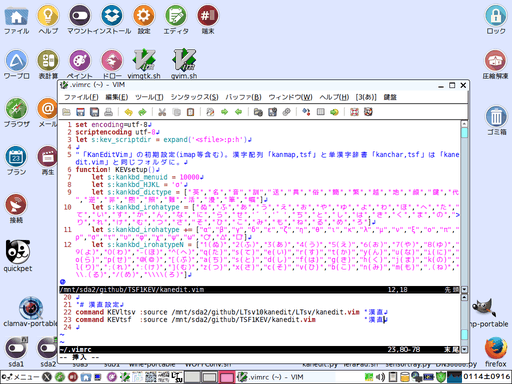
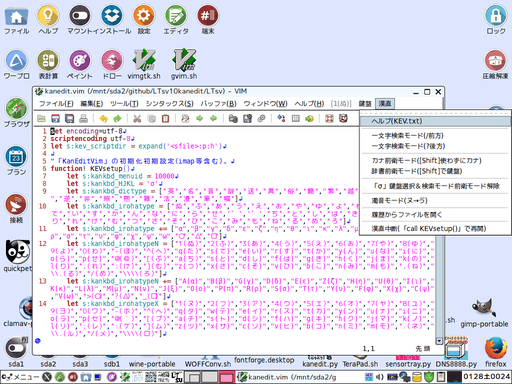
「docs/KEV_512x384.png」「docs/kanfont_512x384.png」の画像更新やVim関連のリンク強化など。

diff --git a/docs/kanfont.html b/docs/kanfont.html
@@ -33,7 +33,7 @@
   <h1>「kanfont」は「LTsv10kanedit(tsvtool10)」を用いたフォントエディタ(グリフエディタ)です。</h1>
   <p>
 
-   version(branch):20170119R141608	modify:20170126R165858<br />
+   version(branch):20170119R141608	modify:20170128S130712<br />
   
 </p>
   <h2>目次</h2>
@@ -73,9 +73,11 @@
 <section>
  <h3 id="License-1">⓪-1．インストール(ダウンロード・アンインストール)＆セットアップ</h3>
 <p>
- ※Pythonは別途インストールされているものとします(Pythonの導入分からない人は「<a href="index.html#LTsv10_faq-0" title="⑩-0．「L:Tsv」のＦＡＱ"><img src="LTsv10_logo.png" width="48" height="48" alt="LTsv10kanedit(tsvtool10)" title="LTsv10kanedit(tsvtool10)">⑩-0．「L:Tsv」のＦＡＱ</a>」も参考)。<br />
- ダウンロードは「<a href="https://github.com/ooblog/LTsv10kanedit" title="ooblog/LTsv10kanedit: 「L:Tsv」の読み書きを中心としたモジュール群と漢字入力「kanedit」のPythonによる実装です(準備中)。">https://github.com/ooblog/LTsv10kanedit</a>」にある「Clone or download」ボタンを押すと出る「Download ZIP」メニューをクリック。<br />
+ ※Pythonは別途インストールされているものとします(Pythonの導入分からない人は「<a href="index.html#LTsv10_faq-0" title="⑩-0．「L:Tsv」のＦＡＱ"><img src="LTsv10_logo.png" width="48" height="48" alt="LTsv10kanedit(tsvtool10)" title="LTsv10kanedit(tsvtool10)">⑩-0．「L:Tsv」のＦＡＱ</a>」を参考)。<br />
 </p><p>
+ ※Vimも別途インストールされているものとします(Vimの導入分からない人は「<a href="KEV.html#KEV_usage-0" title="①-0．「KEV(kanedit.vim)」をVimへセットアップ"><img src="KEV_logo.png" width="48" height="48" alt="KEV" title="KEV">①-0．「KEV(kanedit.vim)」をVimへセットアップ</a>」を参考)。<br />
+</p><p>
+ ダウンロードは「<a href="https://github.com/ooblog/LTsv10kanedit" title="ooblog/LTsv10kanedit: 「L:Tsv」の読み書きを中心としたモジュール群と漢字入力「kanedit」のPythonによる実装です(準備中)。">https://github.com/ooblog/LTsv10kanedit</a>」にある「Clone or download」ボタンを押すと出る「Download ZIP」メニューをクリック。<br />
  インストールは任意(なるだけユーザーディレクトリ内)のフォルダに「LTsv10kanedit-master.zip」を解凍するだけです(「LTsv10kanedit-master」フォルダが作成されるはずです)。<br />
  「*.py」のパーミッションがOFFになってたら実行可能に変更、Wineで使う場合は「<a href="https://github.com/ooblog/LTsv10kanedit/blob/master/wine_sh" title="https://github.com/ooblog/LTsv10kanedit/blob/master/wine_sh">wine_sh</a>」フォルダ内の「*.sh」のWineパスを適宜修正。<br />
  最初に「<a href="https://github.com/ooblog/LTsv10kanedit/blob/master/kanmap.py" title="https://github.com/ooblog/LTsv10kanedit/blob/master/kanmap.py">kanmap.py</a>」を起動(前バージョンの「LTsv/kanpickle.bin」ある場合は一旦削除してから)。「LTsv/kanpickle.bin」を新規作成してください。<br />
@@ -95,7 +97,7 @@
 <section>
  <h3 id="License-2">⓪-2．その他現在わかっている不具合や今後の課題</h3>
 <p>
- Python 2.7.6(Tahrpup6.0.5)およびPython3.4.4(Wine1.7.18)で開発しています。Windows,cygwin,darwinなどでの動作は確認しておりません。<br />
+ 「Tahrpup6.0.5,Python2.7.6,vim.gtk7.4.52(vim-gtk)」および「Wine1.7.18,Python3.4.4,gvim8.0.134(KaoriYa)」で開発しています。Windows,cygwin,darwin,MacOSなどでの動作は確認しておりません。<br />
  フォント(グリフ)「kan5x5comic」は半角と全角の幅の比率が約5:3(1024:624)なのでアスキーアートで問題になる場合があります。グリフ不足で表示できない文字などあります。<br />
  「kan5x5comic.ttf」と「kan5x5.ttf」を同時に入れると麻雀牌が表示されない(「kan5x5.ttf」の絵文字代替4x5文字が優先される)場合があります。<br />
  私用領域と呼ばれる環境に左右される文字コードを漢直鍵盤の制御に用いてます。「kan5x5comic.ttf」を用意しないとソースが見辛い可能性があります。<br />

diff --git a/docs/LTsv_doc.html b/docs/LTsv_doc.html
@@ -33,7 +33,7 @@
   <h1>「LTsv_doc」は「LTsv10kanedit(tsvtool10)」を用いたドキュメントジェネレーターです。</h1>
   <p>
 
-   version(branch):20170119R141608	modify:20170126R165858<br />
+   version(branch):20170119R141608	modify:20170128S130712<br />
   
 </p>
   <h2>目次</h2>
@@ -73,9 +73,11 @@
 <section>
  <h3 id="License-1">⓪-1．インストール(ダウンロード・アンインストール)＆セットアップ</h3>
 <p>
- ※Pythonは別途インストールされているものとします(Pythonの導入分からない人は「<a href="index.html#LTsv10_faq-0" title="⑩-0．「L:Tsv」のＦＡＱ"><img src="LTsv10_logo.png" width="48" height="48" alt="LTsv10kanedit(tsvtool10)" title="LTsv10kanedit(tsvtool10)">⑩-0．「L:Tsv」のＦＡＱ</a>」も参考)。<br />
- ダウンロードは「<a href="https://github.com/ooblog/LTsv10kanedit" title="ooblog/LTsv10kanedit: 「L:Tsv」の読み書きを中心としたモジュール群と漢字入力「kanedit」のPythonによる実装です(準備中)。">https://github.com/ooblog/LTsv10kanedit</a>」にある「Clone or download」ボタンを押すと出る「Download ZIP」メニューをクリック。<br />
+ ※Pythonは別途インストールされているものとします(Pythonの導入分からない人は「<a href="index.html#LTsv10_faq-0" title="⑩-0．「L:Tsv」のＦＡＱ"><img src="LTsv10_logo.png" width="48" height="48" alt="LTsv10kanedit(tsvtool10)" title="LTsv10kanedit(tsvtool10)">⑩-0．「L:Tsv」のＦＡＱ</a>」を参考)。<br />
 </p><p>
+ ※Vimも別途インストールされているものとします(Vimの導入分からない人は「<a href="KEV.html#KEV_usage-0" title="①-0．「KEV(kanedit.vim)」をVimへセットアップ"><img src="KEV_logo.png" width="48" height="48" alt="KEV" title="KEV">①-0．「KEV(kanedit.vim)」をVimへセットアップ</a>」を参考)。<br />
+</p><p>
+ ダウンロードは「<a href="https://github.com/ooblog/LTsv10kanedit" title="ooblog/LTsv10kanedit: 「L:Tsv」の読み書きを中心としたモジュール群と漢字入力「kanedit」のPythonによる実装です(準備中)。">https://github.com/ooblog/LTsv10kanedit</a>」にある「Clone or download」ボタンを押すと出る「Download ZIP」メニューをクリック。<br />
  インストールは任意(なるだけユーザーディレクトリ内)のフォルダに「LTsv10kanedit-master.zip」を解凍するだけです(「LTsv10kanedit-master」フォルダが作成されるはずです)。<br />
  「*.py」のパーミッションがOFFになってたら実行可能に変更、Wineで使う場合は「<a href="https://github.com/ooblog/LTsv10kanedit/blob/master/wine_sh" title="https://github.com/ooblog/LTsv10kanedit/blob/master/wine_sh">wine_sh</a>」フォルダ内の「*.sh」のWineパスを適宜修正。<br />
  最初に「<a href="https://github.com/ooblog/LTsv10kanedit/blob/master/kanmap.py" title="https://github.com/ooblog/LTsv10kanedit/blob/master/kanmap.py">kanmap.py</a>」を起動(前バージョンの「LTsv/kanpickle.bin」ある場合は一旦削除してから)。「LTsv/kanpickle.bin」を新規作成してください。<br />
@@ -95,7 +97,7 @@
 <section>
  <h3 id="License-2">⓪-2．その他現在わかっている不具合や今後の課題</h3>
 <p>
- Python 2.7.6(Tahrpup6.0.5)およびPython3.4.4(Wine1.7.18)で開発しています。Windows,cygwin,darwinなどでの動作は確認しておりません。<br />
+ 「Tahrpup6.0.5,Python2.7.6,vim.gtk7.4.52(vim-gtk)」および「Wine1.7.18,Python3.4.4,gvim8.0.134(KaoriYa)」で開発しています。Windows,cygwin,darwin,MacOSなどでの動作は確認しておりません。<br />
  フォント(グリフ)「kan5x5comic」は半角と全角の幅の比率が約5:3(1024:624)なのでアスキーアートで問題になる場合があります。グリフ不足で表示できない文字などあります。<br />
  「kan5x5comic.ttf」と「kan5x5.ttf」を同時に入れると麻雀牌が表示されない(「kan5x5.ttf」の絵文字代替4x5文字が優先される)場合があります。<br />
  私用領域と呼ばれる環境に左右される文字コードを漢直鍵盤の制御に用いてます。「kan5x5comic.ttf」を用意しないとソースが見辛い可能性があります。<br />

diff --git a/docs/kanedit.html b/docs/kanedit.html
@@ -33,7 +33,7 @@
   <h1>「kanedit」は「LTsv10kanedit(tsvtool10)」を用いた漢直テキストエディタの予定です。</h1>
   <p>
 
-   version(branch):20170119R141608	modify:20170126R165858<br />
+   version(branch):20170119R141608	modify:20170128S130712<br />
   
 </p>
   <h2>目次</h2>
@@ -76,9 +76,11 @@
 <section>
  <h3 id="License-1">⓪-1．インストール(ダウンロード・アンインストール)＆セットアップ</h3>
 <p>
- ※Pythonは別途インストールされているものとします(Pythonの導入分からない人は「<a href="index.html#LTsv10_faq-0" title="⑩-0．「L:Tsv」のＦＡＱ"><img src="LTsv10_logo.png" width="48" height="48" alt="LTsv10kanedit(tsvtool10)" title="LTsv10kanedit(tsvtool10)">⑩-0．「L:Tsv」のＦＡＱ</a>」も参考)。<br />
- ダウンロードは「<a href="https://github.com/ooblog/LTsv10kanedit" title="ooblog/LTsv10kanedit: 「L:Tsv」の読み書きを中心としたモジュール群と漢字入力「kanedit」のPythonによる実装です(準備中)。">https://github.com/ooblog/LTsv10kanedit</a>」にある「Clone or download」ボタンを押すと出る「Download ZIP」メニューをクリック。<br />
+ ※Pythonは別途インストールされているものとします(Pythonの導入分からない人は「<a href="index.html#LTsv10_faq-0" title="⑩-0．「L:Tsv」のＦＡＱ"><img src="LTsv10_logo.png" width="48" height="48" alt="LTsv10kanedit(tsvtool10)" title="LTsv10kanedit(tsvtool10)">⑩-0．「L:Tsv」のＦＡＱ</a>」を参考)。<br />
 </p><p>
+ ※Vimも別途インストールされているものとします(Vimの導入分からない人は「<a href="KEV.html#KEV_usage-0" title="①-0．「KEV(kanedit.vim)」をVimへセットアップ"><img src="KEV_logo.png" width="48" height="48" alt="KEV" title="KEV">①-0．「KEV(kanedit.vim)」をVimへセットアップ</a>」を参考)。<br />
+</p><p>
+ ダウンロードは「<a href="https://github.com/ooblog/LTsv10kanedit" title="ooblog/LTsv10kanedit: 「L:Tsv」の読み書きを中心としたモジュール群と漢字入力「kanedit」のPythonによる実装です(準備中)。">https://github.com/ooblog/LTsv10kanedit</a>」にある「Clone or download」ボタンを押すと出る「Download ZIP」メニューをクリック。<br />
  インストールは任意(なるだけユーザーディレクトリ内)のフォルダに「LTsv10kanedit-master.zip」を解凍するだけです(「LTsv10kanedit-master」フォルダが作成されるはずです)。<br />
  「*.py」のパーミッションがOFFになってたら実行可能に変更、Wineで使う場合は「<a href="https://github.com/ooblog/LTsv10kanedit/blob/master/wine_sh" title="https://github.com/ooblog/LTsv10kanedit/blob/master/wine_sh">wine_sh</a>」フォルダ内の「*.sh」のWineパスを適宜修正。<br />
  最初に「<a href="https://github.com/ooblog/LTsv10kanedit/blob/master/kanmap.py" title="https://github.com/ooblog/LTsv10kanedit/blob/master/kanmap.py">kanmap.py</a>」を起動(前バージョンの「LTsv/kanpickle.bin」ある場合は一旦削除してから)。「LTsv/kanpickle.bin」を新規作成してください。<br />
@@ -98,7 +100,7 @@
 <section>
  <h3 id="License-2">⓪-2．その他現在わかっている不具合や今後の課題</h3>
 <p>
- Python 2.7.6(Tahrpup6.0.5)およびPython3.4.4(Wine1.7.18)で開発しています。Windows,cygwin,darwinなどでの動作は確認しておりません。<br />
+ 「Tahrpup6.0.5,Python2.7.6,vim.gtk7.4.52(vim-gtk)」および「Wine1.7.18,Python3.4.4,gvim8.0.134(KaoriYa)」で開発しています。Windows,cygwin,darwin,MacOSなどでの動作は確認しておりません。<br />
  フォント(グリフ)「kan5x5comic」は半角と全角の幅の比率が約5:3(1024:624)なのでアスキーアートで問題になる場合があります。グリフ不足で表示できない文字などあります。<br />
  「kan5x5comic.ttf」と「kan5x5.ttf」を同時に入れると麻雀牌が表示されない(「kan5x5.ttf」の絵文字代替4x5文字が優先される)場合があります。<br />
  私用領域と呼ばれる環境に左右される文字コードを漢直鍵盤の制御に用いてます。「kan5x5comic.ttf」を用意しないとソースが見辛い可能性があります。<br />

diff --git a/docs/kanzip.html b/docs/kanzip.html
@@ -33,7 +33,7 @@
   <h1>「kanzip」は「LTsv10kanedit(tsvtool10)」を用いた郵便番号ダウンローダーです。</h1>
   <p>
 
-   version(branch):20170119R141608	modify:20170126R165858<br />
+   version(branch):20170119R141608	modify:20170128S130712<br />
   
 </p>
   <h2>目次</h2>
@@ -71,9 +71,11 @@
 <section>
  <h3 id="License-1">⓪-1．インストール(ダウンロード・アンインストール)＆セットアップ</h3>
 <p>
- ※Pythonは別途インストールされているものとします(Pythonの導入分からない人は「<a href="index.html#LTsv10_faq-0" title="⑩-0．「L:Tsv」のＦＡＱ"><img src="LTsv10_logo.png" width="48" height="48" alt="LTsv10kanedit(tsvtool10)" title="LTsv10kanedit(tsvtool10)">⑩-0．「L:Tsv」のＦＡＱ</a>」も参考)。<br />
- ダウンロードは「<a href="https://github.com/ooblog/LTsv10kanedit" title="ooblog/LTsv10kanedit: 「L:Tsv」の読み書きを中心としたモジュール群と漢字入力「kanedit」のPythonによる実装です(準備中)。">https://github.com/ooblog/LTsv10kanedit</a>」にある「Clone or download」ボタンを押すと出る「Download ZIP」メニューをクリック。<br />
+ ※Pythonは別途インストールされているものとします(Pythonの導入分からない人は「<a href="index.html#LTsv10_faq-0" title="⑩-0．「L:Tsv」のＦＡＱ"><img src="LTsv10_logo.png" width="48" height="48" alt="LTsv10kanedit(tsvtool10)" title="LTsv10kanedit(tsvtool10)">⑩-0．「L:Tsv」のＦＡＱ</a>」を参考)。<br />
 </p><p>
+ ※Vimも別途インストールされているものとします(Vimの導入分からない人は「<a href="KEV.html#KEV_usage-0" title="①-0．「KEV(kanedit.vim)」をVimへセットアップ"><img src="KEV_logo.png" width="48" height="48" alt="KEV" title="KEV">①-0．「KEV(kanedit.vim)」をVimへセットアップ</a>」を参考)。<br />
+</p><p>
+ ダウンロードは「<a href="https://github.com/ooblog/LTsv10kanedit" title="ooblog/LTsv10kanedit: 「L:Tsv」の読み書きを中心としたモジュール群と漢字入力「kanedit」のPythonによる実装です(準備中)。">https://github.com/ooblog/LTsv10kanedit</a>」にある「Clone or download」ボタンを押すと出る「Download ZIP」メニューをクリック。<br />
  インストールは任意(なるだけユーザーディレクトリ内)のフォルダに「LTsv10kanedit-master.zip」を解凍するだけです(「LTsv10kanedit-master」フォルダが作成されるはずです)。<br />
  「*.py」のパーミッションがOFFになってたら実行可能に変更、Wineで使う場合は「<a href="https://github.com/ooblog/LTsv10kanedit/blob/master/wine_sh" title="https://github.com/ooblog/LTsv10kanedit/blob/master/wine_sh">wine_sh</a>」フォルダ内の「*.sh」のWineパスを適宜修正。<br />
  最初に「<a href="https://github.com/ooblog/LTsv10kanedit/blob/master/kanmap.py" title="https://github.com/ooblog/LTsv10kanedit/blob/master/kanmap.py">kanmap.py</a>」を起動(前バージョンの「LTsv/kanpickle.bin」ある場合は一旦削除してから)。「LTsv/kanpickle.bin」を新規作成してください。<br />
@@ -93,7 +95,7 @@
 <section>
  <h3 id="License-2">⓪-2．その他現在わかっている不具合や今後の課題</h3>
 <p>
- Python 2.7.6(Tahrpup6.0.5)およびPython3.4.4(Wine1.7.18)で開発しています。Windows,cygwin,darwinなどでの動作は確認しておりません。<br />
+ 「Tahrpup6.0.5,Python2.7.6,vim.gtk7.4.52(vim-gtk)」および「Wine1.7.18,Python3.4.4,gvim8.0.134(KaoriYa)」で開発しています。Windows,cygwin,darwin,MacOSなどでの動作は確認しておりません。<br />
  フォント(グリフ)「kan5x5comic」は半角と全角の幅の比率が約5:3(1024:624)なのでアスキーアートで問題になる場合があります。グリフ不足で表示できない文字などあります。<br />
  「kan5x5comic.ttf」と「kan5x5.ttf」を同時に入れると麻雀牌が表示されない(「kan5x5.ttf」の絵文字代替4x5文字が優先される)場合があります。<br />
  私用領域と呼ばれる環境に左右される文字コードを漢直鍵盤の制御に用いてます。「kan5x5comic.ttf」を用意しないとソースが見辛い可能性があります。<br />

diff --git a/docs/kanmap.html b/docs/kanmap.html
@@ -33,7 +33,7 @@
   <h1>「kanmap」は「LTsv10kanedit(tsvtool10)」を用いたグリフ進捗ビュアーです。</h1>
   <p>
 
-   version(branch):20170119R141608	modify:20170126R165858<br />
+   version(branch):20170119R141608	modify:20170128S130712<br />
   
 </p>
   <h2>目次</h2>
@@ -72,9 +72,11 @@
 <section>
  <h3 id="License-1">⓪-1．インストール(ダウンロード・アンインストール)＆セットアップ</h3>
 <p>
- ※Pythonは別途インストールされているものとします(Pythonの導入分からない人は「<a href="index.html#LTsv10_faq-0" title="⑩-0．「L:Tsv」のＦＡＱ"><img src="LTsv10_logo.png" width="48" height="48" alt="LTsv10kanedit(tsvtool10)" title="LTsv10kanedit(tsvtool10)">⑩-0．「L:Tsv」のＦＡＱ</a>」も参考)。<br />
- ダウンロードは「<a href="https://github.com/ooblog/LTsv10kanedit" title="ooblog/LTsv10kanedit: 「L:Tsv」の読み書きを中心としたモジュール群と漢字入力「kanedit」のPythonによる実装です(準備中)。">https://github.com/ooblog/LTsv10kanedit</a>」にある「Clone or download」ボタンを押すと出る「Download ZIP」メニューをクリック。<br />
+ ※Pythonは別途インストールされているものとします(Pythonの導入分からない人は「<a href="index.html#LTsv10_faq-0" title="⑩-0．「L:Tsv」のＦＡＱ"><img src="LTsv10_logo.png" width="48" height="48" alt="LTsv10kanedit(tsvtool10)" title="LTsv10kanedit(tsvtool10)">⑩-0．「L:Tsv」のＦＡＱ</a>」を参考)。<br />
 </p><p>
+ ※Vimも別途インストールされているものとします(Vimの導入分からない人は「<a href="KEV.html#KEV_usage-0" title="①-0．「KEV(kanedit.vim)」をVimへセットアップ"><img src="KEV_logo.png" width="48" height="48" alt="KEV" title="KEV">①-0．「KEV(kanedit.vim)」をVimへセットアップ</a>」を参考)。<br />
+</p><p>
+ ダウンロードは「<a href="https://github.com/ooblog/LTsv10kanedit" title="ooblog/LTsv10kanedit: 「L:Tsv」の読み書きを中心としたモジュール群と漢字入力「kanedit」のPythonによる実装です(準備中)。">https://github.com/ooblog/LTsv10kanedit</a>」にある「Clone or download」ボタンを押すと出る「Download ZIP」メニューをクリック。<br />
  インストールは任意(なるだけユーザーディレクトリ内)のフォルダに「LTsv10kanedit-master.zip」を解凍するだけです(「LTsv10kanedit-master」フォルダが作成されるはずです)。<br />
  「*.py」のパーミッションがOFFになってたら実行可能に変更、Wineで使う場合は「<a href="https://github.com/ooblog/LTsv10kanedit/blob/master/wine_sh" title="https://github.com/ooblog/LTsv10kanedit/blob/master/wine_sh">wine_sh</a>」フォルダ内の「*.sh」のWineパスを適宜修正。<br />
  最初に「<a href="https://github.com/ooblog/LTsv10kanedit/blob/master/kanmap.py" title="https://github.com/ooblog/LTsv10kanedit/blob/master/kanmap.py">kanmap.py</a>」を起動(前バージョンの「LTsv/kanpickle.bin」ある場合は一旦削除してから)。「LTsv/kanpickle.bin」を新規作成してください。<br />
@@ -94,7 +96,7 @@
 <section>
  <h3 id="License-2">⓪-2．その他現在わかっている不具合や今後の課題</h3>
 <p>
- Python 2.7.6(Tahrpup6.0.5)およびPython3.4.4(Wine1.7.18)で開発しています。Windows,cygwin,darwinなどでの動作は確認しておりません。<br />
+ 「Tahrpup6.0.5,Python2.7.6,vim.gtk7.4.52(vim-gtk)」および「Wine1.7.18,Python3.4.4,gvim8.0.134(KaoriYa)」で開発しています。Windows,cygwin,darwin,MacOSなどでの動作は確認しておりません。<br />
  フォント(グリフ)「kan5x5comic」は半角と全角の幅の比率が約5:3(1024:624)なのでアスキーアートで問題になる場合があります。グリフ不足で表示できない文字などあります。<br />
  「kan5x5comic.ttf」と「kan5x5.ttf」を同時に入れると麻雀牌が表示されない(「kan5x5.ttf」の絵文字代替4x5文字が優先される)場合があります。<br />
  私用領域と呼ばれる環境に左右される文字コードを漢直鍵盤の制御に用いてます。「kan5x5comic.ttf」を用意しないとソースが見辛い可能性があります。<br />

diff --git a/docs/index.html b/docs/index.html
@@ -33,7 +33,7 @@
   <h1>「LTsv10kanedit(tsvtool10)」は「L:Tsv」の読み書きを中心としたモジュール群です。</h1>
   <p>
 
-   version(branch):20170119R141608	modify:20170126R165858<br />
+   version(branch):20170119R141608	modify:20170128S130712<br />
   
 </p>
   <h2>目次</h2>
@@ -91,9 +91,11 @@
 <section>
  <h3 id="License-1">⓪-1．インストール(ダウンロード・アンインストール)＆セットアップ</h3>
 <p>
- ※Pythonは別途インストールされているものとします(Pythonの導入分からない人は「<a href="#LTsv10_faq-0" title="⑩-0．「L:Tsv」のＦＡＱ">⑩-0．「L:Tsv」のＦＡＱ</a>」も参考)。<br />
- ダウンロードは「<a href="https://github.com/ooblog/LTsv10kanedit" title="ooblog/LTsv10kanedit: 「L:Tsv」の読み書きを中心としたモジュール群と漢字入力「kanedit」のPythonによる実装です(準備中)。">https://github.com/ooblog/LTsv10kanedit</a>」にある「Clone or download」ボタンを押すと出る「Download ZIP」メニューをクリック。<br />
+ ※Pythonは別途インストールされているものとします(Pythonの導入分からない人は「<a href="#LTsv10_faq-0" title="⑩-0．「L:Tsv」のＦＡＱ">⑩-0．「L:Tsv」のＦＡＱ</a>」を参考)。<br />
 </p><p>
+ ※Vimも別途インストールされているものとします(Vimの導入分からない人は「<a href="KEV.html#KEV_usage-0" title="①-0．「KEV(kanedit.vim)」をVimへセットアップ"><img src="KEV_logo.png" width="48" height="48" alt="KEV" title="KEV">①-0．「KEV(kanedit.vim)」をVimへセットアップ</a>」を参考)。<br />
+</p><p>
+ ダウンロードは「<a href="https://github.com/ooblog/LTsv10kanedit" title="ooblog/LTsv10kanedit: 「L:Tsv」の読み書きを中心としたモジュール群と漢字入力「kanedit」のPythonによる実装です(準備中)。">https://github.com/ooblog/LTsv10kanedit</a>」にある「Clone or download」ボタンを押すと出る「Download ZIP」メニューをクリック。<br />
  インストールは任意(なるだけユーザーディレクトリ内)のフォルダに「LTsv10kanedit-master.zip」を解凍するだけです(「LTsv10kanedit-master」フォルダが作成されるはずです)。<br />
  「*.py」のパーミッションがOFFになってたら実行可能に変更、Wineで使う場合は「<a href="https://github.com/ooblog/LTsv10kanedit/blob/master/wine_sh" title="https://github.com/ooblog/LTsv10kanedit/blob/master/wine_sh">wine_sh</a>」フォルダ内の「*.sh」のWineパスを適宜修正。<br />
  最初に「<a href="https://github.com/ooblog/LTsv10kanedit/blob/master/kanmap.py" title="https://github.com/ooblog/LTsv10kanedit/blob/master/kanmap.py">kanmap.py</a>」を起動(前バージョンの「LTsv/kanpickle.bin」ある場合は一旦削除してから)。「LTsv/kanpickle.bin」を新規作成してください。<br />
@@ -113,7 +115,7 @@
 <section>
  <h3 id="License-2">⓪-2．その他現在わかっている不具合や今後の課題</h3>
 <p>
- Python 2.7.6(Tahrpup6.0.5)およびPython3.4.4(Wine1.7.18)で開発しています。Windows,cygwin,darwinなどでの動作は確認しておりません。<br />
+ 「Tahrpup6.0.5,Python2.7.6,vim.gtk7.4.52(vim-gtk)」および「Wine1.7.18,Python3.4.4,gvim8.0.134(KaoriYa)」で開発しています。Windows,cygwin,darwin,MacOSなどでの動作は確認しておりません。<br />
  フォント(グリフ)「kan5x5comic」は半角と全角の幅の比率が約5:3(1024:624)なのでアスキーアートで問題になる場合があります。グリフ不足で表示できない文字などあります。<br />
  「kan5x5comic.ttf」と「kan5x5.ttf」を同時に入れると麻雀牌が表示されない(「kan5x5.ttf」の絵文字代替4x5文字が優先される)場合があります。<br />
  私用領域と呼ばれる環境に左右される文字コードを漢直鍵盤の制御に用いてます。「kan5x5comic.ttf」を用意しないとソースが見辛い可能性があります。<br />

diff --git a/docs/404.html b/docs/404.html
@@ -33,7 +33,7 @@
   <h1>「LTsv10kanedit(tsvtool10)」は「L:Tsv」の読み書きを中心としたモジュール群です。</h1>
   <p>
 
-   version(branch):20170119R141608	modify:20170126R165858<br />
+   version(branch):20170119R141608	modify:20170128S130712<br />
   
 </p>
   <h2>サイトマップ</h2>
